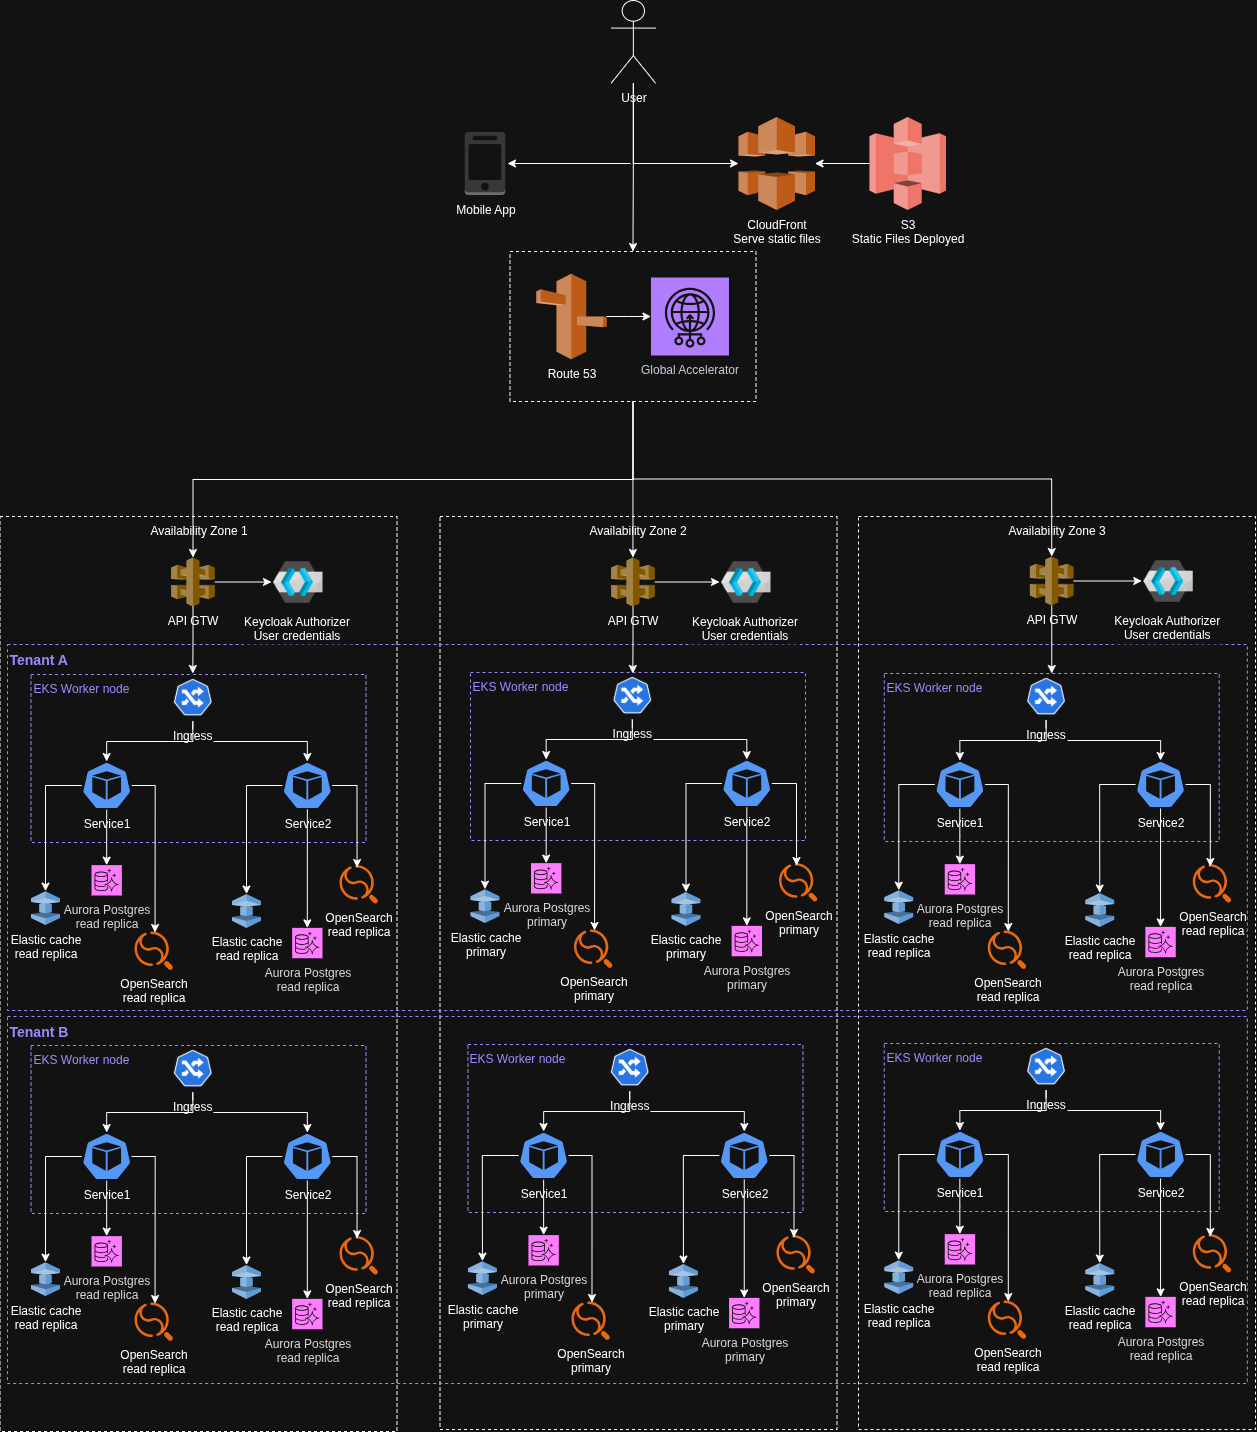
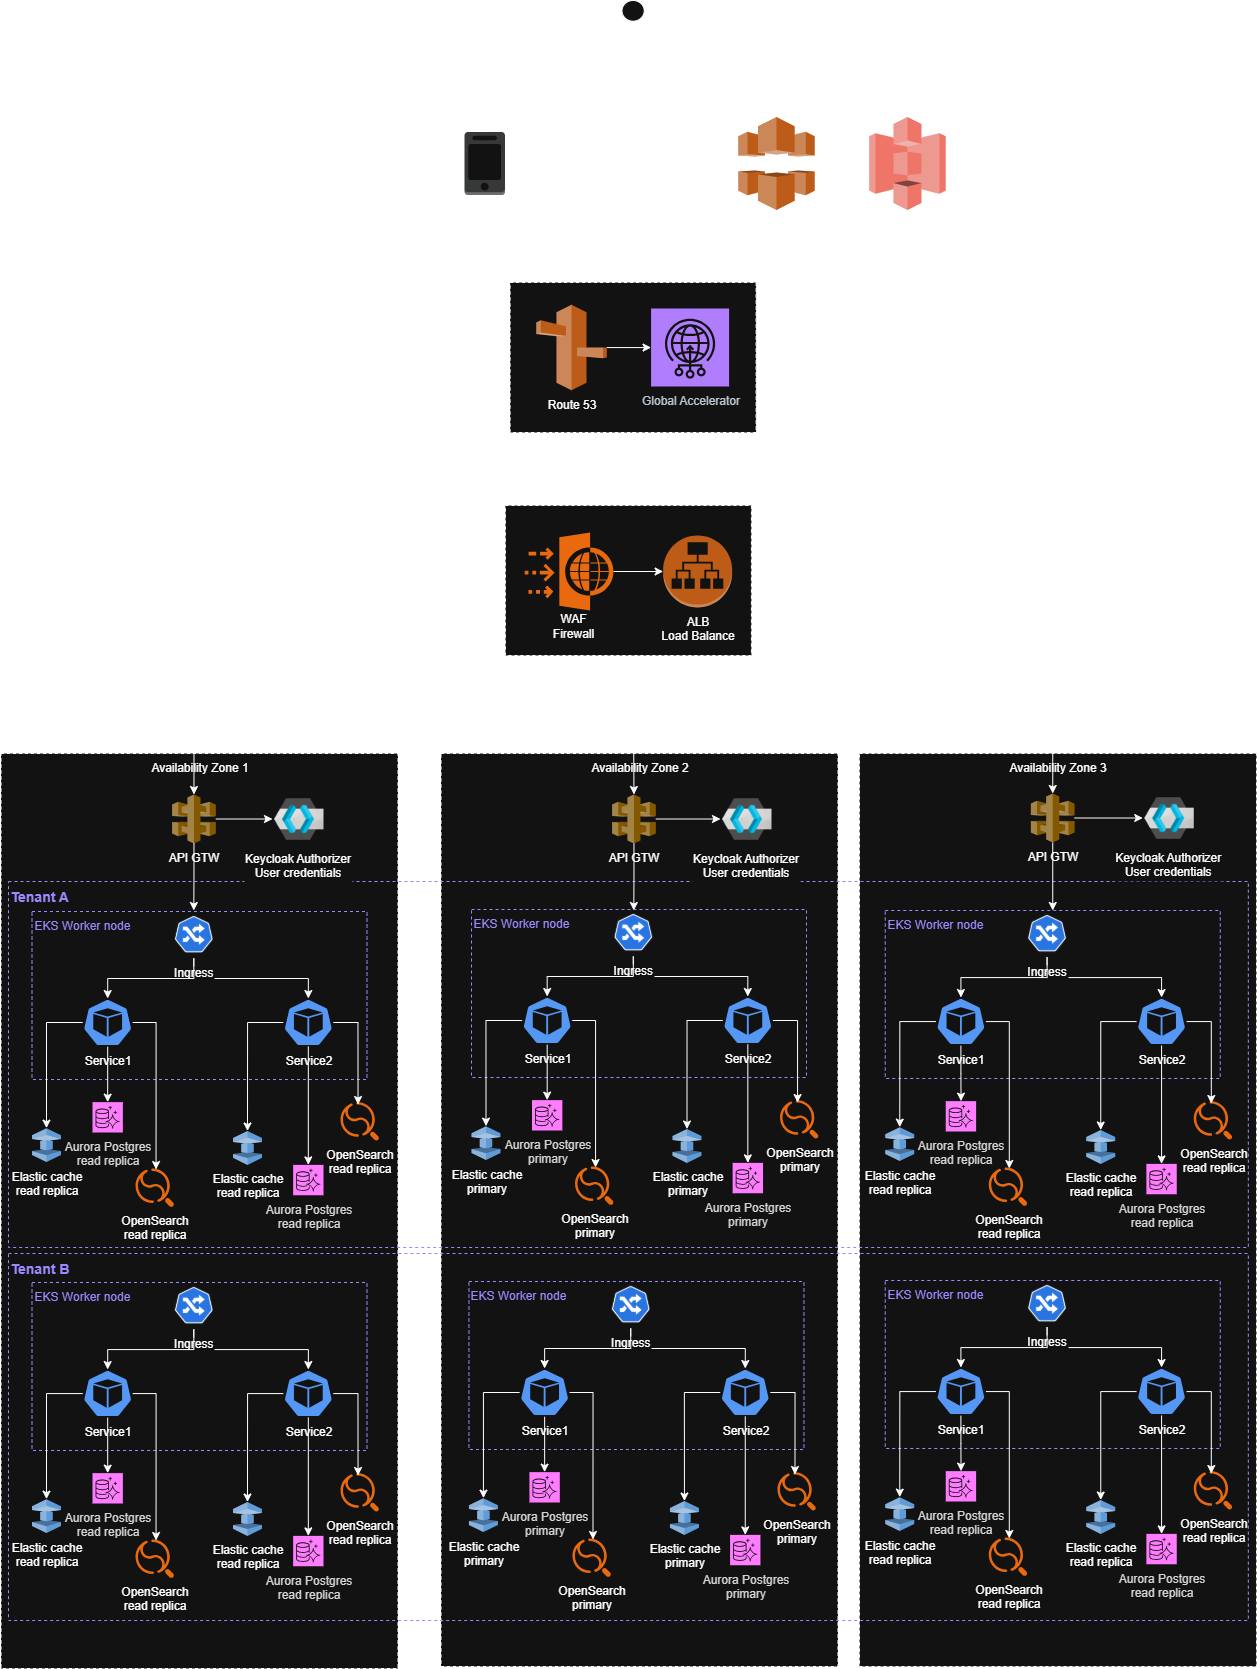
feat: update overall

diff --git a/architecture/poc-tracker/content/ALB.md b/architecture/poc-tracker/content/ALB.md
@@ -1,0 +1,25 @@
+## AWS Application Load Balancer (ALB)
+
+**AWS Application Load Balancer (ALB)** is a fully managed Layer 7 load balancer that intelligently routes **HTTP and HTTPS** traffic to your applications based on content, improving scalability, reliability, and performance for modern web architectures.
+
+### Key Features
+
+* 🌐 **Layer 7 Routing**: Content-based routing using **host**, **path**, **headers**, **query strings**, and more.
+* 🔁 **Flexible Targeting**: Routes traffic to **EC2**, **ECS**, **Lambda**, **IP addresses**, and **Fargate**.
+* ⚖ **Load Balancing**: Distributes traffic evenly across healthy targets in one or more Availability Zones.
+* 🛡 **AWS WAF Integration**: Protects applications from common web exploits with **built-in WAF support**.
+* 🧠 **Smart Health Checks**: Monitors target health and routes only to healthy endpoints.
+* 🔒 **SSL Termination**: Offloads SSL/TLS encryption and integrates with **AWS Certificate Manager (ACM)**.
+* ⚙ **Authentication & Authorization**: Supports **OIDC**, **Cognito**, and SAML-based authentication.
+* 🧩 **Container Support**: Native integration with **Amazon ECS** using dynamic port mapping.
+* 📊 **Detailed Metrics & Logging**: Provides **CloudWatch metrics**, **access logs**, and **request tracing**.
+
+### Common Use Cases
+
+* 🌍 **Modern Web Apps** that require intelligent routing and layer 7 features.
+* ☁ **Microservices architectures** with multiple routes, services, or containerized workloads.
+* 🔐 **Secured applications** needing built-in authentication and WAF protection.
+* ⚙ **Lambda-based APIs** using HTTP endpoints or **serverless** backends.
+* 🧪 **Blue/Green or Canary deployments** using weighted target groups.
+
+👉 In short: **ALB is the go-to Layer 7 load balancer for routing HTTP(S) traffic intelligently across scalable, modern AWS applications — with built-in security, flexibility, and monitoring.**

diff --git a/architecture/poc-tracker/content/WAF.md b/architecture/poc-tracker/content/WAF.md
@@ -1,0 +1,24 @@
+## AWS WAF (Web Application Firewall)
+
+**AWS WAF** is a fully managed security service that protects web applications and APIs from common internet threats. It allows you to monitor, filter, and control HTTP/S traffic to your apps based on customizable rules.
+
+### Key Features
+
+* 🛡 **Rule-based Protection**: Block or allow requests based on **IP, headers, URI, geo, rate limits**, and more.
+* 🧠 **Managed Rule Groups**: Pre-configured rules from **AWS** and **Marketplace vendors** for common threats (e.g., OWASP Top 10).
+* 🤖 **Bot Control**: Detect and mitigate **malicious bots**, while allowing good bots (like search engines).
+* 📊 **Rate-based Rules**: Automatically **throttle or block** IPs that exceed defined request limits.
+* 🌐 **Geo Blocking**: Control access based on the **geographic origin** of requests.
+* 🔍 **Real-time Monitoring**: Integrated with **CloudWatch** for metrics and **S3/Kinesis** for detailed logging.
+* 🔁 **Flexible Rule Engine**: Create **custom rules** with logical conditions using **Web ACLs**.
+* 🔒 **Security Integration**: Works with **CloudFront**, **ALB**, **API Gateway**, and **App Runner**.
+
+### Common Use Cases
+
+* 🛡 **Protect web apps** from common exploits like SQL injection or XSS.
+* 🚫 **Block bad bots, scrapers, or brute-force attempts**.
+* 🌍 **Control access by country** or **specific IPs**.
+* 📉 **Mitigate DDoS-like behavior** with request rate limiting.
+* 🔎 **Log and analyze web traffic** for suspicious patterns or audits.
+
+👉 In short: **AWS WAF adds a powerful, customizable layer of security to your web apps — helping you defend against malicious traffic, bots, and abuse, all with real-time visibility and full AWS integration.**

diff --git a/architecture/poc-tracker/architecture.md b/architecture/poc-tracker/architecture.md
@@ -272,6 +272,11 @@ Deep links to specific screens (dojo session, job detail).
 - Amazon Route 53 provides DNS resolution and routing.
 - AWS Global Accelerator ensures optimized global network routing, directing traffic to the nearest healthy endpoint across regions.
 
+### Application Load Balancer (ALB) + Web Application Firewall (WAF)
+- WAF should be attached to component that handles HTTP/HTTPs
+- WAF inspects and filter incoming requests to ALB
+- ALB distribute incoming requests to API Gateway
+
 ### API Gateway (in each AZ)
 - Manages API requests.
 - Provides features like request validation, throttling, and routing to backend microservices.
